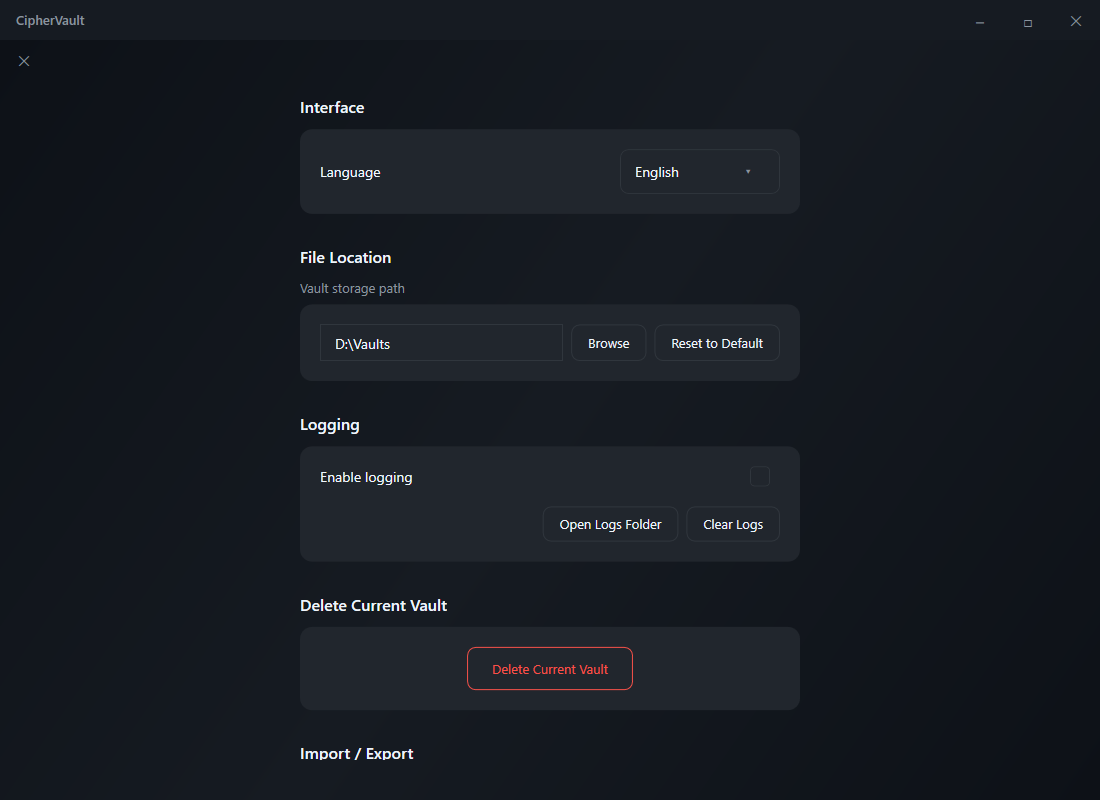
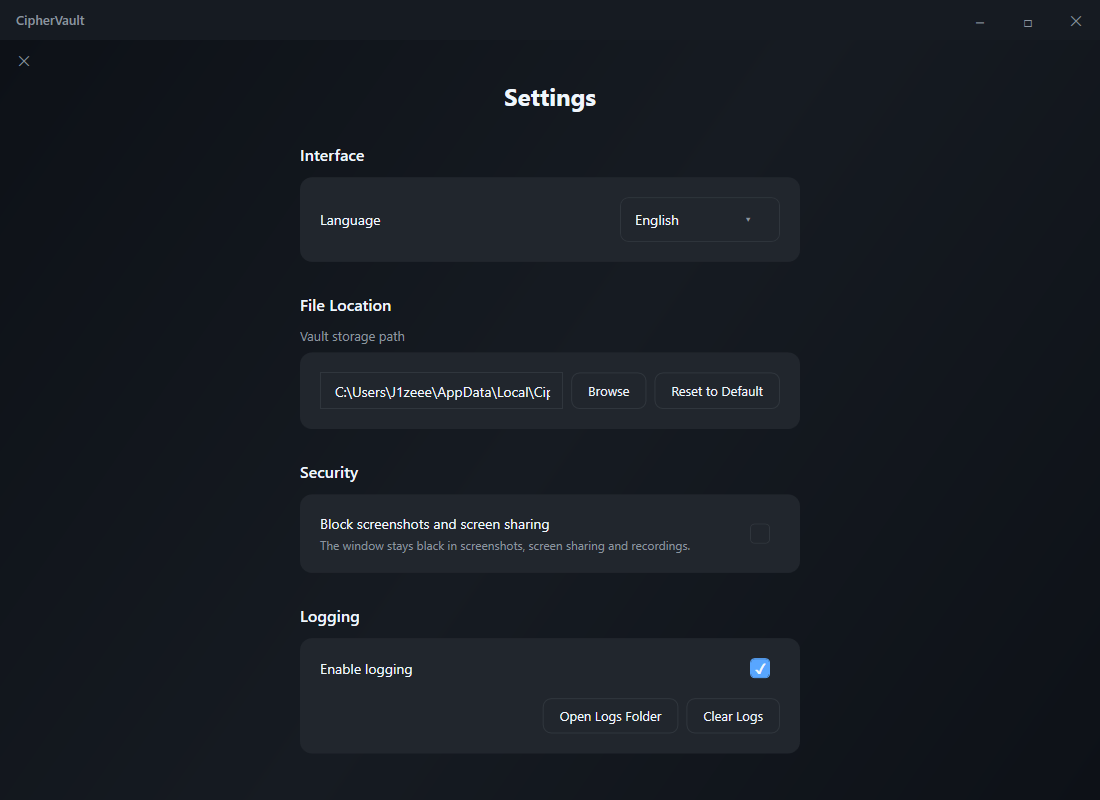
Fix C# version in READMEs, refresh Settings screenshot

diff --git a/docs/README-RU.md b/docs/README-RU.md
@@ -3,7 +3,7 @@
 **Безопасный офлайн-менеджер паролей для Windows с современной криптографией.**
 
 [![.NET](https://img.shields.io/badge/.NET-8.0-512BD4?logo=dotnet)](https://dotnet.microsoft.com/download)
-[![C#](https://img.shields.io/badge/C%23-14-239120?logo=csharp)](https://learn.microsoft.com/dotnet/csharp)
+[![C#](https://img.shields.io/badge/C%23-12-239120?logo=csharp)](https://learn.microsoft.com/dotnet/csharp)
 [![License](https://img.shields.io/badge/License-Apache%202.0-green)](../LICENSE)
 [![Platform](https://img.shields.io/badge/Platform-Windows%20x64-0078D4?logo=windows)](https://www.microsoft.com/windows)
 [![Release](https://img.shields.io/badge/Release-v1.0.0-blue)](https://github.com/J1zeee/CipherVault/releases/latest)
@@ -71,7 +71,7 @@
 ## Технологии
 
 ```
-.NET 8.0  •  WPF  •  C# 14
+.NET 8.0  •  WPF  •  C# 12
 ```
 
 | Библиотека / API | Назначение |

diff --git a/README.md b/README.md
@@ -3,7 +3,7 @@
 **Secure, offline password manager for Windows with modern cryptography.**
 
 [![.NET](https://img.shields.io/badge/.NET-8.0-512BD4?logo=dotnet)](https://dotnet.microsoft.com/download)
-[![C#](https://img.shields.io/badge/C%23-14-239120?logo=csharp)](https://learn.microsoft.com/dotnet/csharp)
+[![C#](https://img.shields.io/badge/C%23-12-239120?logo=csharp)](https://learn.microsoft.com/dotnet/csharp)
 [![License](https://img.shields.io/badge/License-Apache%202.0-green)](LICENSE)
 [![Platform](https://img.shields.io/badge/Platform-Windows%20x64-0078D4?logo=windows)](https://www.microsoft.com/windows)
 [![Release](https://img.shields.io/badge/Release-v1.0.0-blue)](https://github.com/J1zeee/CipherVault/releases/latest)
@@ -71,7 +71,7 @@
 ## Tech Stack
 
 ```
-.NET 8.0  •  WPF  •  C# 14
+.NET 8.0  •  WPF  •  C# 12
 ```
 
 | Library / API | Purpose |
